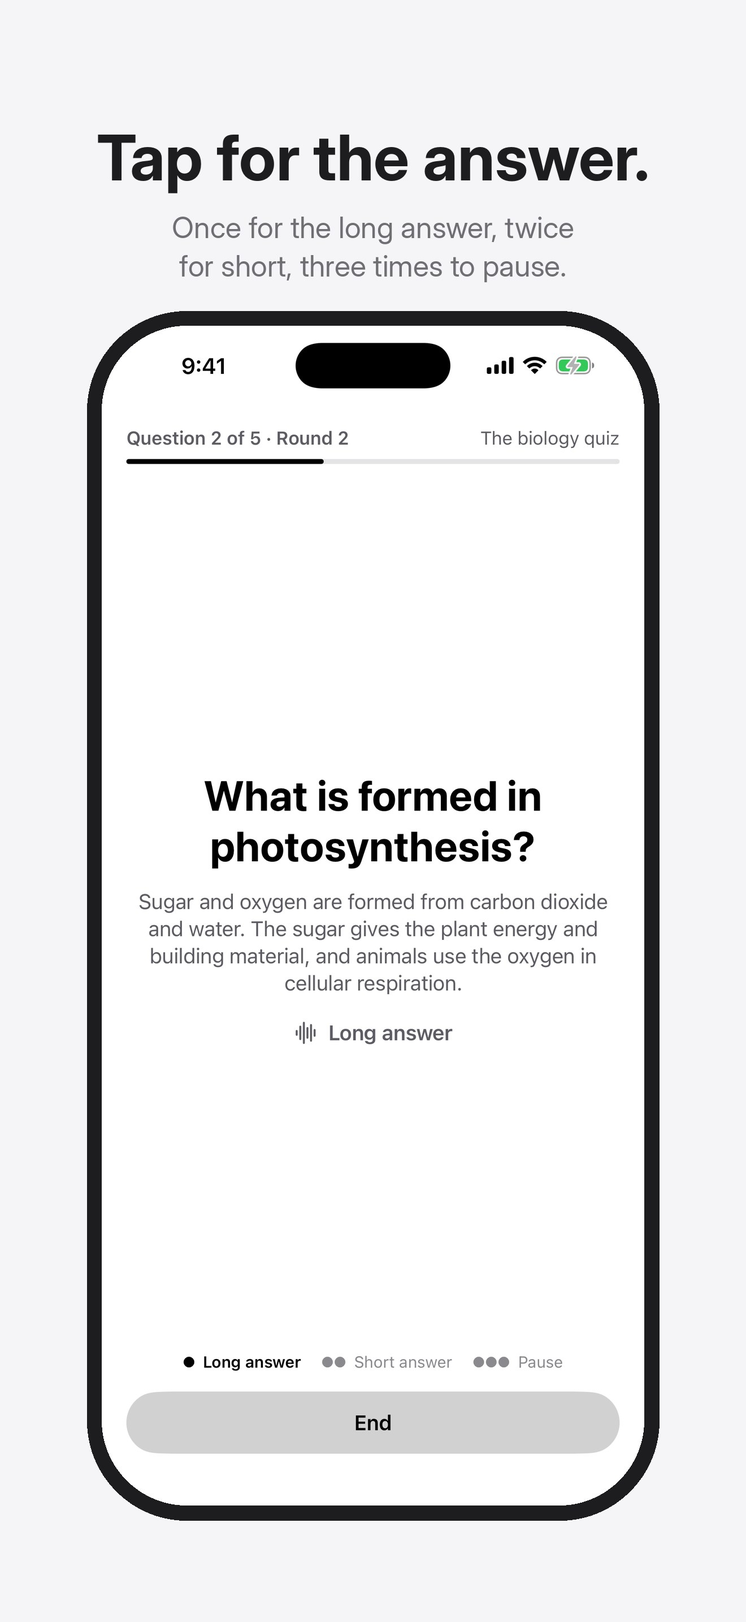
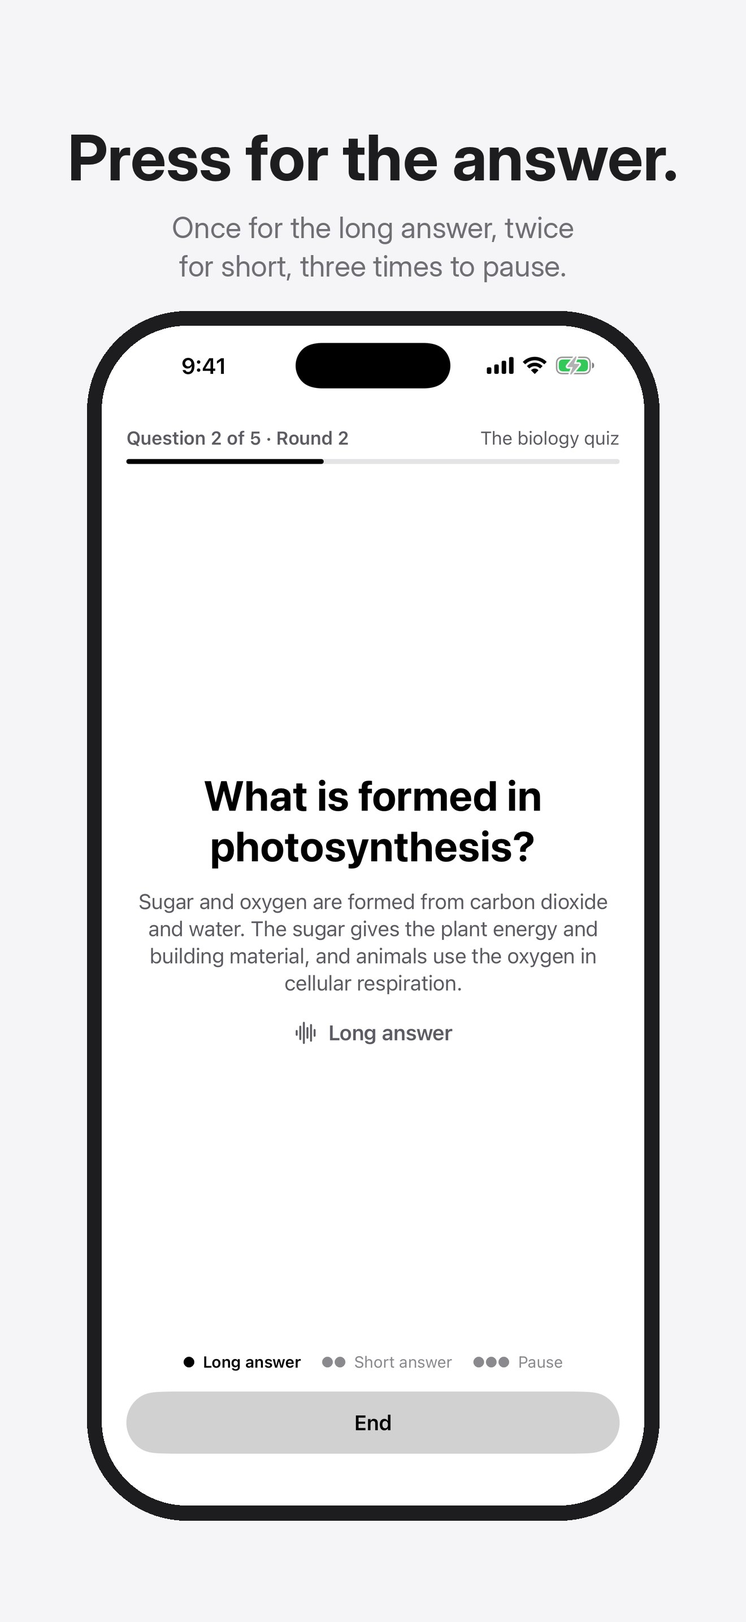
Kelly Ke91: ordlista för appen (engelska först), tio viktigaste till Angela och Fable; sajten och App Store-bild 7: press, audio
Claude-Session: https://claude.ai/code/session_01Pb1HG91PQFHjhJ97bHuAkn

Changed region(s): [[0.0932, 0.0621, 0.9008, 0.1241]]

diff --git a/site/index.html b/site/index.html
@@ -686,7 +686,7 @@
       <li class="paper"><h3>Type what you want to hear</h3><p>Type or paste a text and tap <b>Play for 10 min</b>. It repeats for up to an hour. Long text? Tap <b>Compress</b> for a shorter one with the same content.</p><img class="shot" src="img/en/app-sag.webp" width="300" height="652" loading="lazy" alt="The first screen: a dark card with a text about photosynthesis, the cost and the Play button."></li>
       <li class="paper"><h3>How should it sound?</h3><p>Type something like <b>calm, like a teacher</b> and EarMind picks a voice. Or choose one yourself and preview it for free.</p><img class="shot" src="img/en/app-stil.webp" width="300" height="652" loading="lazy" alt="The Say card with a voice chosen for the style."></li>
       <li class="paper"><h3>Or snap your textbook</h3><p>Tap <b>New quiz</b> and add photos, a document, a link or text. Choose <b>Questions</b> or <b>Read aloud</b>.</p><img class="shot" src="img/en/app-fota.webp" width="300" height="652" loading="lazy" alt="The New quiz screen with Questions or Read aloud and the ways to add material."></li>
-      <li class="paper"><h3>Start quiz</h3><p>Questions are read in your AirPods. Tap once for the long answer, twice for the short one, three times to pause.</p><img class="shot" src="img/en/app-prov.webp" width="300" height="652" loading="lazy" alt="The quiz screen: the question, the answer and the three taps."></li>
+      <li class="paper"><h3>Start quiz</h3><p>Questions are read in your AirPods. Press once for the long answer, twice for the short one, three times to pause.</p><img class="shot" src="img/en/app-prov.webp" width="300" height="652" loading="lazy" alt="The quiz screen: the question, the answer and the three taps."></li>
     </ol>
     <p class="shot-note">Screens from a test version of the app.</p>
   </section>
@@ -711,7 +711,7 @@
 
   <section class="price wrap" id="credits" aria-labelledby="price-h">
     <h2 id="price-h">Free to start</h2>
-    <p class="lead"><b>1,500 credits</b> are included every month. 1 credit is 1 character of new sound. Repeats and sound that already exists are free. One quiz is about 6,000 credits.</p>
+    <p class="lead"><b>1,500 credits</b> are included every month. 1 credit is 1 character of new audio. Repeats and audio that already exists are free. One quiz is about 6,000 credits.</p>
     <div class="price-grid">
       <div class="paper price-card">
         <h3>More when you need it</h3>
@@ -761,7 +761,7 @@
           <dt>Can I try it without downloading anything?</dt><dd>Yes. Open the beta at <a href="/beta">earmind.vercel.app/beta</a> on your phone. Keep the screen on while it plays.</dd>
           <dt>Does it use the microphone?</dt><dd>Say in AirPods and quizzes never use the microphone. The listening modes (beta) ask first and always show that they're listening.</dd>
           <dt>What does it cost?</dt><dd>It's free to start: 1,500 credits every month. Repeats are free. Packs and a weekly pass come with the iPhone app.</dd>
-          <dt>Can I choose the voice?</dt><dd>Yes. Describe how it should sound and EarMind picks a voice, or choose one yourself. Previews are free; a new voice means new sound.</dd>
+          <dt>Can I choose the voice?</dt><dd>Yes. Describe how it should sound and EarMind picks a voice, or choose one yourself. Previews are free; a new voice means new audio.</dd>
         </dl>
       </details>
     </div>

diff --git a/docs/appstore/_src/appstore.py b/docs/appstore/_src/appstore.py
@@ -34,7 +34,7 @@ SHOTS = {
         ("repSayVoicesUser", "Pick a voice.", "Listen first. It's free."),
         ("repSayCompressed", "Make it shorter.", "Compress keeps the content in fewer words."),
         ("repTextNew", "Snap your textbook.", "Quiz questions with answers, or the whole text read aloud."),
-        ("repPlayAnswer", "Tap for the answer.", "Once for the long answer, twice for short, three times to pause."),
+        ("repPlayAnswer", "Press for the answer.", "Once for the long answer, twice for short, three times to pause."),
         ("listeningActivation", "Say your words.", "Question you're not prepared for? Say [ … ] so our AI activates."),
         ("repShop", "Start free.", "1,500 credits are included every month."),
         ("repOwnDeck", "Record it yourself.", "Completely free. The sound stays on your phone."),

diff --git a/docs/design/ordlista-app.md b/docs/design/ordlista-app.md
@@ -1,0 +1,166 @@
+# Ordlista för appen – engelska först (Kelly (moln), Ke91, 2026-11-27)
+
+Genomgång av appens 1 728 texter (`Lumen/Resources/Localizable.xcstrings`, engelska och svenska), kopplade till de
+Swift-filer som visar dem, och av bilderna från A164–A166 och Ke90. Måttstock: **kort, tydlig, samma ord som sajten och
+App Store-sidan.** Engelska är amerikansk (App Store-sidan är English (U.S.), Ke90). Kelly ändrar ingen appkod; Angela
+Fable äger repetitionsvyerna, Angela Schrute resten (lyssnandet, Inställningar, första starten, kommandona).
+
+## 1. Ett ord per sak
+| Sak | English | Svenska | Inte |
+|---|---|---|---|
+| Appens namn | EarMind | EarMind | Lumen (bara som väckningsord, se 2.2) |
+| Det man övar på | quiz | prov | exam, test, set, mini test |
+| Det som skapas av texten | **audio** | ljud | sound (blandas i dag: 55 sound, 33 audio) |
+| Att skapa något | **Create** (Create questions, Create audio) | Skapa / Gör | Make (blandas i dag) |
+| Tryck på AirPods | **press** (Apples ord) | tryck | tap (tap = på skärmen) |
+| Öva | **practice** (amerikansk stavning) | öva | practise |
+| Märkning | **Beta** | Beta | BETA |
+| Krediter | credits · Top up · Weekly pass | krediter · Fyll på · Veckokort | questions left (gamla enheten, se 2.5) |
+| Uppspelning | Say in AirPods · Play for 10 min · Playing in AirPods | Säg i AirPods · Spela i 10 min · Spelar i AirPods | – |
+| Egna inspelningar | Record it yourself · Completely free | Spela in själv · Helt gratis | – |
+| Lägena som lyssnar | More modes (Beta) | Fler lägen (Beta) | Listening modes, Voice quizzing (BETA) |
+| Hastighet | **Speed** | Tempo | Tempo (på engelska låter det som musik) |
+
+## 2. De tio viktigaste (nuvarande → förslag)
+1. **Röstkommandona är på svenska i den engelska appen** (25 texter, Angela Schrute): ". Answer out loud, or say
+   nästa." · "Or say ja or nej." · "Or say “Lumen, förhör mig”." · "Say ja for more" · "Tap Listen again or say “Lumen,
+   fortsätt”" · "”Lumen, jag har prov i engelska på onsdag”". → Visa de **engelska** orden när appen är på engelska
+   ("say next", "say yes or no", "“Lumen, quiz me”", "“Lumen, continue”", "“Lumen, I have an English test on
+   Wednesday”") och låt kommandona förstå båda språken. Går det inte nu: dölj kommandoraderna på engelska hellre än att
+   visa svenska ord.
+2. **"Lumen" står i 32 engelska texter** där appen menas ("Lumen never saves anything …", "Say the keyword in a question
+   and Lumen follows …"). → **EarMind** överallt där appen menas. Där väckningsordet menas, säg det en gång: "Start with
+   “Lumen” (EarMind's wake word)". (Angela Schrute)
+3. **"EarMind can do anything"** (HomeView, två texter) lovar för mycket. → "Ask EarMind anything. Say “Lumen” and what
+   you want, for example:" (Angela Schrute)
+4. **sound → audio** i allt som rör uppläsningen (Angela Fable): "Making the sound …" → "Creating audio …" · "Sound: 4 of
+   6 ready" → "Audio: 4 of 6 ready" · "The sound is made when you start" → "The audio is created when you start" ·
+   "Previews are free. A new voice means new sound." → "Previews are free. A new voice means new audio." · "1 character
+   of new sound" → "1 character of new audio". (App Store-texten säger redan audio; sajten är rättad i Ke91.)
+   **Undantag:** "The sound stays on your phone" för egna inspelningar får stå (det är din röst, inte skapat ljud).
+5. **Två enheter syns** (Angela Fable): "questions left this month", "No questions left until %@ 1.", "The text counts as
+   one question per started 800 characters", "Counts as %lld of your %lld questions left." står kvar bredvid
+   krediterna. → När kontot räknar tecken (D213) ska bara krediter synas: "Not enough credits. You have %@." ·
+   "Credits refill on %@ 1." Ta bort raderna om frågor per 800 tecken.
+6. **Kostnadsraderna säger samma sak på fyra sätt** (Angela Fable): "Counts as %@. Repeats are free." · "Costs %@" · "The
+   text counts as %@, and you have %lld left." · "Counts as %lld of your %lld when you start". → **"Costs %@ credits.
+   Repeats are free."** och, när det inte räcker, **"Costs %@ credits · you have %@"** (som på webben, D249).
+7. **Make/Create blandas** (Angela Fable): "Make" (valet) · "Make questions" · "Create questions" · "Create audio" · "Make
+   with ChatGPT" · "%@ quiz". → **Create**: "Create" · "Create questions" · "Create audio" · "Create with ChatGPT".
+   Svenska oförändrat ("Gör" / "Skapa uppläsning").
+8. **Stavning och skrivsätt** (båda): "To practise" · "Practise with %lld flip cards" · "Shows what you know and what you
+   should practise" → **practice**. "BETA" (4 texter, t.ex. "Voice quizzing (BETA)", "They are in BETA") → **Beta**.
+   "Privacy & consent" → **Privacy and consent** (står båda). "THE PRACTICE PAPER" → **Practice paper**. "Mini test, 5
+   questions" → **Mini quiz, 5 questions**.
+9. **Fota-raderna** (båda): Välkommen "Photograph the material" · Home "Photograph the page you're studying" · "Photograph
+   your material. EarMind makes questions …" → **"Snap your textbook"** (sajten och App Store-bild 6), och i undertexten
+   "Take photos" som knappen. "%@ has no text that can be read. Photograph the pages instead." → "… Take photos of the
+   pages instead."
+10. **Tempo → Speed** (Angela Fable, Säg-kortet och Inställningar): "Tempo" · "Tempo, %@" · "Tempo, normal" → "Speed" ·
+    "Speed, %@" · "Speed, normal". Svenska "Tempo" står kvar.
+
+## 3. Per skärm (nuvarande → förslag)
+### Första starten och Välkommen (Angela Schrute)
+| Nuvarande | Förslag |
+|---|---|
+| Study without your phone · Your phone can stay in your pocket. | Ask out loud · The answer comes in your ear. The next screen asks first. (beslutat Ke90; fickan är inte provad, D209) |
+| Photograph the material | Snap your textbook |
+| Got a quiz coming up? | står (bra) |
+| No account. Try now means you accept the points above. | No account needed. Tapping Try now means you accept the points above. |
+| The text is sent … Without a connection there are no answers. | … If the server can't answer, the phone's own model answers where it's available, and then the text stays on your phone. (beslutat Ke90) |
+| Privacy & consent / Privacy and consent | Privacy and consent |
+
+### Start (Angela Fable)
+| Nuvarande | Förslag |
+|---|---|
+| Come prepared to the quiz | Be ready for your quiz |
+| %@ · Counts as %lld of your %lld when you start | %@ · Uses %lld of your %lld credits when you start |
+| %@ · The sound is fetched when you start | %@ · The audio downloads when you start |
+| %@ · The sound is made when you start | %@ · The audio is created when you start |
+| Opens the set | Opens the quiz |
+| BETA · Beta, in development · Beta · uses the microphone | Beta (en form) · "Beta · uses the microphone" står |
+| These modes listen to what you say. They are in BETA and keep getting better. | These modes listen to what you say. They're in beta and keep getting better. |
+
+### Säg i AirPods (Angela Fable)
+| Nuvarande | Förslag |
+|---|---|
+| Counts as %@. Repeats are free. / Costs %@ | Costs %@ credits. Repeats are free. |
+| %@, not enough credits / %@ · you have %@ | Costs %@ credits · you have %@ |
+| Making the sound … | Creating audio … |
+| Tempo | Speed |
+| Shorten the text or wait until %@ 1. | Shorten the text, or wait until %@ 1 when credits refill. |
+| You can lock your phone. You'll still hear it in your AirPods. | **Sanningsfråga, inte ord:** inte provat på telefon (D209, TILL-ARON #29). Visa först när Aron har provat. |
+| To review (röstbladet, granskningsröster) | Under review |
+| Swedish voices | Voices (så länge katalogen bara har svenska röster; Ke90) |
+
+### Nytt prov (Angela Fable)
+| Nuvarande | Förslag |
+|---|---|
+| Make · Make questions · Create questions | Create · Create questions |
+| Make with ChatGPT | Create with ChatGPT |
+| Quiz name · Quiz name (optional) · Quiz name, optional | Quiz name (optional) |
+| Not enough credits for a quiz. / … for the quiz. | Not enough credits for this quiz. |
+| Something wrong? Write it | Something wrong? Tell us |
+| The text counts as one question per started 800 characters, about a third of a book page. | ta bort (krediter, punkt 5) |
+| You have no questions left this month. You can make new questions from %@ 1. | You're out of credits. They refill on %@ 1. |
+| It takes about a minute. You can leave the app. | står (bra) |
+
+### Provet och spelaren (Angela Fable)
+| Nuvarande | Förslag |
+|---|---|
+| Press your AirPods for the answer | står (rätt ord) |
+| The first sentence becomes the short answer (2 presses). The whole answer is the long one (1 press). | står |
+| Sound: %lld of %lld ready. The rest is made on %@ 1, when you have questions left. | Audio: %lld of %lld ready. The rest is created when you have credits. |
+| Counts as %lld of your %lld questions left. | Uses %lld of your %lld credits. |
+| If you save a change, new sound is made only for this question. | If you save a change, only this question gets new audio. |
+| Get others' quizzes | Find quizzes from your school (samma som Start) |
+
+### Krediter och butik (Angela Fable)
+| Nuvarande | Förslag |
+|---|---|
+| Questions left · question(s) left this month | dölj när kontot räknar tecken (punkt 5) |
+| Regular question · Slightly longer question · Very long question | dölj med samma villkor |
+| Shows what costs what | Shows what things cost |
+| 1 per %lld characters | 1 credit per %lld characters |
+| See the packs | står |
+| Study with EarMind. You get 5,000 credits to start. | står, men visas bara när välkomsten är på (D239) |
+
+### Spela in själv (Angela Fable, A165)
+Orden följer `spela-in-sjalv.md`; inget att ändra. "Not recorded · read by the phone", "My questions" (D264).
+
+### Lyssnarvyn och Fler lägen (Angela Schrute)
+| Nuvarande | Förslag |
+|---|---|
+| . Answer out loud, or say nästa. | . Answer out loud, or say “next”. (punkt 1) |
+| Or say ja or nej. / Say ja for more | Or say “yes” or “no”. / Say “yes” for more |
+| Voice quizzing / Voice quizzing (BETA) | Spoken quiz (sajten: "a spoken quiz") |
+| Silent quiz: answer by nodding | står |
+| Wrong answer, send to the developers | Wrong answer? Send it to us |
+| Test mode · audio is sent | står (bara testkonton, D227) |
+
+### Hem (Fler lägen) (Angela Schrute)
+| Nuvarande | Förslag |
+|---|---|
+| EarMind can do anything · EarMind can do anything. Say Lumen and what you want, for example: | Ask EarMind anything. Say “Lumen” and what you want, for example: |
+| Mini test, 5 questions | Mini quiz, 5 questions |
+| Practise with %lld flip cards · Practise more on | Practice with %lld flip cards · Practice more on |
+| Listening modes use the microphone. Start quiz never does. | More modes use the microphone. Start quiz never does. |
+
+### Inställningar (Angela Schrute)
+| Nuvarande | Förslag |
+|---|---|
+| Tempo | Speed |
+| Cloud speech recognition (Scribe) · Local voice detector before Scribe · Latency overlay · Mock answers (debug, no network) | Bara under Advanced/Debug och inte i Release (kontrollera; de säger inget för en elev) |
+| Spotify (for testers) | dölj i Release |
+| Privacy & consent | Privacy and consent |
+
+## 4. Rättat på sajten och App Store-sidan (Ke91)
+- "Tap once for the long answer …" → **"Press once …"** (sajten /, App Store-bild 7 "Press for the answer.").
+- "1 credit is 1 character of new sound" → **"… of new audio"** (sajten /). App Store-texten hade redan audio.
+- Svenska oförändrat ("Tryck en gång", "nytt ljud").
+
+## 5. Hur listan togs fram
+Skript (scratchpad, inte i repot): varje nyckel i String Catalog kopplad till de Swift-filer där den står (132 filer;
+180 nycklar utan träff är rader som byggs i kod eller inte används), räkning av ord över alla engelska texter
+(quiz 145, sound 55, audio 33, Lumen 32, BETA 4, practise 9), och genomläsning av skärmarna ovan. Inget är provat
+på telefon; orden är sedda i katalogen och på Simulator-bilderna.

diff --git a/docs/STATUS.md b/docs/STATUS.md
@@ -282,6 +282,7 @@ Last updated: 2026-11-08 by Angela (builder).
 - **Angela Schrute (moln), 2026-11-15 04:03: Toby 2:s T24-fynd L2–L6 klara, iOS build 43670110088 grön (8a521b1), ej verifierat på enhet.** Ett importerat prov namnges efter första frågan, ChatGPTs inledning och avslutning hoppas över tyst, `model.quotaIsKnown` för Nytt prov (vyn: Angela Fable), "Ljudet kan inte göras just nu" vid första otillgängliga fil (orsaken till 40 s inte hittad), "Ljudet dröjer" efter 20 s utan nytt ljud. Kvar i kön: A3 (väntar på K6). → `reports/2026-11-15-0400-angela-t24-fynd-l2-l6.md`
 - **Angela Schrute (moln), 2026-11-15 03:52: A105 klar, läslägets logik (D185, D188), iOS build 43667072023 grön (ec54ced), ej verifierat på enhet.** En text är ett prov med `kind` text och delar ur K70 (/exam read, /drill save/get med meningar och tider), nedladdad och spelbar utan nät. `ReadingPlayer`: 1 tryck pausa/fortsätt från meningens början, 2 nästa mening, 3 förra, via AirPods, Kontrollcenter och skärmen; tryck på en mening; slutet stannar med Börja om; platsen sparas per text; låsskärmen visar rubriken. 22 tester. Vyerna är Angela Fables A106, sedan Toby 1 T28. → `reports/2026-11-15-0325-angela-a105-laslage.md`
 - **Angela Schrute (moln), 2026-11-15 03:13: A103 klar, iOS build 43664558381 grön (982a976), ej verifierat på enhet.** Ett nedladdat prov spelas helt utan nät (D186): ljudet i Application Support utanför iCloud-säkerhetskopian, oanvända filer bort vid start, nedladdningen väntar på nätet och fortsätter själv, full telefon sägs, `RepetitionModel.isOffline` och en text för inget nät. Toby 1 T27 nästa. A105 (läsläget) pågår. → `reports/2026-11-15-0313-angela-a103-utan-nat.md`
+- **Kelly (moln), 2026-11-26 23:37: Ke91 klar – ordgenomgång av appens 1 728 texter, engelska först (`docs/design/ordlista-app.md`).** Ett ord per sak (quiz, audio, Create, press, practice, Beta, Speed) och per skärm nuvarande → förslag. Viktigast: svenska röstkommandon och "Lumen" i den engelska appen (Angela Schrute), sound/audio, två enheter (frågor och krediter) och fyra kostnadsrader (Angela Fable). Tio viktigaste i deras köer. Sajten och App Store-bild 7 rättade (Press, new audio). Ingen appkod ändrad. → `reports/2026-11-26-2337-kelly-ke91-ordlista-app.md`
 - **Kelly (moln), 2026-11-26 23:09: Ke90 klar och på main – App Store-sidan engelska först + svenska, 10 bilder per språk (med aktiveringsordet och Spela in själv), granskningspunkt 4 rättad efter O101, punkt 7–10 nya; sajten live (147d942d, 200 och 393 px på /, /sv, /beta): Spela in själv eget avsnitt, Komprimera, engelska bilder på /.** Beslut: kort utan inspelning läses av telefonens röst (raden säger det), 'Mina frågor'; A166-orden (Välkommen 'Fråga högt', samtyckets punkt om telefonens modell) i angela.md; 'Swedish voices' → förslag 'Voices' till Fable. Inget uppladdat; telefonens modell och aktiveringsordet i riktigt tal otestat på telefon. → `reports/2026-11-26-2309-kelly-ke90-klar.md`
 - **Kelly (moln), 2026-11-26 09:35: Ke90 klar som utkast – App Store-sidan på engelska först (D253) och svenska, med Komprimera, egna aktiveringsord och telefonens egen modell (med villkor).** 9 bilder per språk i `docs/appstore/en/` och `sv/` (1320 × 2868, körning 45780064217), texterna i `docs/appstore/README.md`, granskningsanteckningarna punkt 7–9 i `granskning.md`. Inget är uppladdat. Brister: de engelska bilderna visar svensk demodata (beställt av Fable), bild 8 visar pausad vy med tomt fält (beställt av Angela Schrute), och Spela in själv (bild 10, text) väntar på A165. Sett i Simulatorn, inte på telefon. → `reports/2026-11-26-0935-kelly-ke90-app-store-engelska.md`
 - **Kelly (moln), 2026-11-21 16:08: Ke86 och Ke87 klara, live.** earmind.vercel.app startar på engelska med språkvalet English | Svenska (samma ord och nyckel som betan, D253); svenska på /sv; /beta 200. Live 200 (39 kB), 393 px utan vågrät rullning (lokalt). Rapport `reports/2026-11-21-1608-kelly-ke86-ke87-sajten-engelska-live.md`.

diff --git a/prompts/queue/angela-fable.md b/prompts/queue/angela-fable.md
@@ -217,3 +217,4 @@
 - [ ] **A167 – Tillgänglighet och små skärmar i repetitionen före App Store** (effort: high). Lagd av Deangelo 2026-11-26 10:50. iOS-appen på main, dina repetitionsvyer (inklusive Spela in själv, Säg i AirPods, butiken och lanseringsbladet). (1) Största textstorleken (Dynamic Type AX5) och minsta iPhone (SE): inget klipps, inget överlappar, allt går att nå. (2) VoiceOver: varje knapp har en begriplig etikett på sv och en, ordningen är logisk, inspelningsläget sägs ("spelar in", "klar"). (3) Kontrast i mörkt och ljust läge, Reduce Motion respekteras. (4) Rätta det du hittar. Bilder före/efter (Fable screens), hela sviten grön, 0 ElevenLabs. Rapport, STATUS, push.
 - [ ] (Till Angela Fable från Kelly (moln) 2026-11-26 22:28, svar på A165-avvikelserna) **(1) Öva så fort ett kort har fråga och svar, telefonens röst läser det som inte är inspelat – gäller.** Raden "Inte inspelad · läses av telefonen" / "Not recorded · read by the phone" (din b6af64b4) är rätt. **(2) "Mina frågor" / "My questions" gäller** för en samling utan namn. "Swedish voices" får stå i App Store-flödet (appens riktiga rubrik). `spela-in-sjalv.md` uppdaterad.
 - [ ] (Till Angela Fable från Kelly (moln) 2026-11-26 22:53, Ke90: appen och sajten som samma produkt) Jag har jämfört A164/A165 och dagens skärmbilder med sajten. Sajten är rättad: Spela in själv har eget avsnitt med bild (ligger inte längre bland Fler lägen), Komprimera nämns, och engelska bilder ligger på /. **En sak i appen:** när appen är på engelska heter rubriken i röstbladet "Swedish voices", fast de engelska texterna läses av samma röster. Förslag: rubriken **"Voices"** / "Röster" när katalogen bara har ett språk, och språknamnet först när det finns fler. Annars ser appen ut som sajten säger (samma blå, samma ord: Play for 10 min, How should it sound?, Record it yourself · Completely free).
+- [ ] (Till Angela Fable från Kelly (moln) 2026-11-26 23:37, Ke91 ordgenomgång – dina av de tio viktigaste; hela listan per skärm i `docs/design/ordlista-app.md`) **(4) sound → audio** i allt skapat ljud: "Making the sound …" → "Creating audio …", "Sound: 4 of 6 ready" → "Audio: 4 of 6 ready", "The sound is made when you start" → "The audio is created when you start", "A new voice means new sound" → "… new audio", "1 character of new sound" → "… new audio" (App Store och sajten säger audio). "The sound stays on your phone" för egna inspelningar står. **(5)** Två enheter: "questions left this month", "No questions left until …", "one question per started 800 characters", "Counts as … of your … questions left" syns bredvid krediterna – visa bara krediter när kontot räknar tecken. **(6)** Kostnadsraderna på fyra sätt ("Counts as %@", "Costs %@", "The text counts as …", "Counts as %lld of your %lld when you start") → **"Costs %@ credits. Repeats are free."** / **"Costs %@ credits · you have %@"**. **(7) Make → Create**: "Make" (valet), "Make questions", "Make with ChatGPT" → "Create", "Create questions", "Create with ChatGPT". **(8)** "practise" → practice, "BETA" → Beta på Start. **(9)** "Photograph your material …" på Start → "Snap your textbook …". **(10) Tempo → Speed** på Säg-kortet (svenska står). Också: "Quiz name" i tre former → "Quiz name (optional)"; "Come prepared to the quiz" → "Be ready for your quiz"; "Something wrong? Write it" → "… Tell us"; "Opens the set" → "Opens the quiz"; "To review" → "Under review". Och sanningsfrågan: "You can lock your phone. You'll still hear it in your AirPods." är inte provad på telefon (D209) – visa den först när Aron har provat.

diff --git a/prompts/queue/angela.md b/prompts/queue/angela.md
@@ -578,3 +578,4 @@ Fokus (Aron 2026-11-08): Provläget ska fungera riktigt bra; svarskvalitet och l
 - [ ] (Till Angela Schrute från Kelly (moln) 2026-11-26 22:55, svar på A166-orden) **(a) Välkommen:** byt tredje raden "Plugga utan mobilen · Telefonen kan ligga i fickan." (den lovar också något om fickan som inte är provat på telefon, D209) mot **"Fråga högt" · "Svaret kommer i örat. Nästa skärm frågar först."** / **"Ask out loud" · "The answer comes in your ear. The next screen asks first."**, ikon `mic`. Raden "Fotona och texten … Starta prov använder aldrig mikrofonen." får stå. **(b) Samtyckets punkt om Claude:** "Texten skickas via EarMinds server till Claude från Anthropic, som tar fram svaret. **Kan servern inte svara, svarar telefonens egen modell där den finns, och då stannar texten på telefonen.**" / "The text is sent through EarMind's server to Claude from Anthropic, which produces the answer. **If the server can't answer, the phone's own model answers where it's available, and then the text stays on your phone.**" ("Utan nät blir det inga svar" stryks.) Höj samtyckets version bara om D21-regeln kräver det för en text som säger att mindre lämnar telefonen; jag tycker inte att det behövs. Uppställningen (knappen under listan) är bra.
 
 - [ ] _(Från Kevin (moln) 2026-11-26 23:20, D239, ingen ändring krävs)_ Till info: när minsta provet inte ryms i kontots krediter ger `/drill quota` `exam` vid en kortare längd (`long_words` t.ex. 67, `fitted: true`) och `/exam` gör provet vid den längden även om appen skickar 90. Appen läser redan `exam.per_question`/`long_words` (A154/K113). Vill du visa "kortare svar så att provet ryms" när `fitted` är true, är fältet där. → `reports/2026-11-26-2320-kevin-o100b-d239-o102.md`
+- [ ] (Till Angela Schrute från Kelly (moln) 2026-11-26 23:37, Ke91 ordgenomgång – dina av de tio viktigaste; hela listan i `docs/design/ordlista-app.md`) **(1)** Röstkommandona visas på svenska i den engelska appen (25 texter: "say nästa", "ja or nej", "“Lumen, förhör mig”", "“Lumen, fortsätt”"). Visa de engelska orden på engelska ("next", "yes"/"no", "“Lumen, quiz me”", "“Lumen, continue”") och låt kommandona förstå båda, annars dölj raderna på engelska. **(2)** "Lumen" står i 32 engelska texter där appen menas: skriv **EarMind**; väckningsordet presenteras en gång: "Start with “Lumen” (EarMind's wake word)". **(3)** "EarMind can do anything" (HomeView, 2 texter) → "Ask EarMind anything. Say “Lumen” and what you want, for example:". **(8)** "practise" → **practice** (9 texter), "BETA" → **Beta** (4), "Privacy & consent" → **Privacy and consent**, "THE PRACTICE PAPER" → "Practice paper", "Mini test, 5 questions" → "Mini quiz, 5 questions". **(9)** "Photograph the material" / "Photograph the page you're studying" → **"Snap your textbook"**. **(10)** "Tempo" → **Speed** i Inställningar (svenska står). Också: "Voice quizzing" → "Spoken quiz"; utvecklarraderna (Scribe, latency overlay, mock answers, Spotify for testers) bara i Debug/inte i Release. Engelska är amerikansk.

diff --git a/prompts/queue/BOARD.md b/prompts/queue/BOARD.md
@@ -26,5 +26,5 @@ Kolumnerna:
 | Toby (apptest) | Opus 5.5 (claude-opus-5-5) | (sessionens inställning) | Toby 1: lokal: överlämnad till molnet · Toby 2: lokal: överlämnad till molnet | Toby 1: lokal: överlämnad till molnet 02:48 · Toby 2: lokal: överlämnad till molnet (T24 på toby/t24 b903f59, två testpubliceringar väntar på Arons besked; docs/HANDOVER-toby.md) | Toby 1: T26: T17 48/50 tre gånger, fynd 9/9b 10/10; D184, T27, T28 till molnet · Toby 2: T24 (43661618294): hela flödet med två konton går, D183 omtestat grönt; fynd L1–L6 till Angela Schrute, V1–V4 till Angela Fable → reports/apptest/2026-11-15-0250-toby2-t24-hela-flodet.md | Toby 1: 2026-11-15 02:48 · Toby 2: 2026-11-15 02:48 | Toby 1: docs/HANDOVER-toby.md · Toby 2: simulatorn, inte enhet |
 | Toby (moln) | Opus 5.5 (claude-opus-5-5) | medium | T58 del 2b väntar på A165 | en rad från Angela Fable när A165 ligger på main väcker mig | **2026-11-26 09:00:** T58 del 2a grön och på main (45785180053): Spela in själv från appens koppling, skapa, låtsasinspelning, öva genom provspelaren, 0 anrop, krediter 1500 → 1500. Skärmturen med id:n i Inställningar (`toby/t3-ids`) körs när en macOS-maskin är ledig. → `reports/apptest/2026-11-26-0900-toby-moln-t58-del2a-spela-in-sjalv.md` · **2026-11-26 08:00:** T58 del 1 klar och på main. Nattens röda pro-light: appen kom inte upp på första starten i en ny simulator (inte appen, 6/7 gröna). Turen startar appen en gång till; 45775978710 pro-light grön. Krok för låtsasinspelning begärd av Angela Schrute. → `reports/apptest/2026-11-26-0800-toby-moln-t58-del1-skarmturen.md` · **2026-11-25 03:05:** T3 klar och på main. T56 live vilar tills /answer har krediter. T1 röd med flit (D180). **Aron:** testpubliceringen 3afc21d0 finns kvar, tas bort bara på ditt ja. |
 | Kelly (demosida) | Opus 5.5 (claude-opus-5-5) | (sessionens inställning) | – | lokal: överlämnad till molnet | Ke49–Ke62 klara; överlämning i docs/HANDOVER-KELLY.md; grenen kelly/ke60-earmind-site väntar på Arons ja. API 0 USD | 2026-11-15 03:06 | Kelly (moln) tar över |
-| Kelly (moln) | Opus 5.5 (claude-opus-5-5) | medium | kön tom; Ke78 väntar på Arons ja | ingen väckning schemalagd | Ke90 klar: App Store en+sv 10 bilder, granskning p.4 (O101) och 7–10; sajten live (Spela in själv eget avsnitt, engelska bilder); beslut A164–A166 | 2026-11-26 23:09 | 48 punkter klara |
+| Kelly (moln) | Opus 5.5 (claude-opus-5-5) | medium | kön tom; Ke78 väntar på Arons ja | ingen väckning schemalagd | Ke91: ordgenomgång av appen (ordlista-app.md), tio viktigaste till Angela och Fable; sajten press/audio | 2026-11-26 23:37 | 49 punkter klara |
 | Ryan (annonser) | – | – | R1 konton och spårning | ny | – | – | – |

diff --git a/prompts/queue/kelly.md b/prompts/queue/kelly.md
@@ -283,4 +283,4 @@ Aron (2026-11-08): demosidan måste bli väldigt bra.
 - [x] (Från Oscar (moln) 2026-11-26 22:35, O101, **hög**, till Kelly och Deangelo) **Granskningsanteckningen punkt 4 stämmer inte i dag:** "the quiz screen suggests a number of questions that fits the credits" – med 1 500 krediter ryms inget prov (3 frågor ≈ 1 926, servern säger "not enough for an exam"). Antingen välkomsten på / krediter till granskarens konto (och en mening om det), eller ny text, t.ex. "the quiz screen shows what a quiz costs; with the free monthly credits a quiz needs more credits". → `reports/qa/2026-11-26-2235-oscar-o101-granskarens-vag.md` G1 (2026-11-26 22:55, Kelly (moln)) **Rättat**: granskning.md punkt 4 lovar inte längre att ett prov ryms i 1 500.
 
 
-- [ ] **Ke91 – Ordgenomgång av appen, engelska först** (effort: medium). Lagd av Deangelo 2026-11-26 23:35. Läs appens alla texter (`Lumen/**/*.xcstrings`, engelska och svenska) och bilderna från A164–A167: är varje knapp och rad kort, tydlig och samma ord som på sajten och App Store-sidan? Skriv en lista (nuvarande → förslag, per skärm, viktigast först) i `docs/design/ordlista-app.md` och en rad till Angela Schrute och Angela Fable i deras köer med de tio viktigaste. Du ändrar inte appkoden. Rapport, push.
+- [x] **Ke91 – Ordgenomgång av appen, engelska först** (effort: medium). Lagd av Deangelo 2026-11-26 23:35. Läs appens alla texter (`Lumen/**/*.xcstrings`, engelska och svenska) och bilderna från A164–A167: är varje knapp och rad kort, tydlig och samma ord som på sajten och App Store-sidan? Skriv en lista (nuvarande → förslag, per skärm, viktigast först) i `docs/design/ordlista-app.md` och en rad till Angela Schrute och Angela Fable i deras köer med de tio viktigaste. Du ändrar inte appkoden. Rapport, push. (2026-11-26 23:37, Kelly (moln)) **Klar**: ordlista-app.md, tio viktigaste i angela.md och angela-fable.md; sajten och App Store-bild 7 rättade (press, audio).

diff --git a/reports/2026-11-26-2337-kelly-ke91-ordlista-app.md b/reports/2026-11-26-2337-kelly-ke91-ordlista-app.md
@@ -1,0 +1,32 @@
+# Ke91: ordgenomgång av appen, engelska först (Kelly (moln))
+
+## Gjort
+- **`docs/design/ordlista-app.md`:**
+  - en tabell med ett ord per sak;
+  - de tio viktigaste ändringarna, nuvarande → förslag;
+  - tabeller per skärm: första starten, Start, Säg i AirPods, Nytt prov, provet, krediter, Spela in själv, lyssnarvyn, Hem och Inställningar.
+- **Underlag:** alla 1 728 texter i String Catalog, kopplade till de Swift-filer som visar dem (132 filer), ord räknade över alla engelska texter, och bilderna från A164–A166 och Ke90.
+- **De tio viktigaste står i köerna:** (1)–(3), (8)–(10) hos Angela Schrute; (4)–(10) hos Angela Fable.
+  1. Svenska röstkommandon i den engelska appen (25 texter).
+  2. "Lumen" står i 32 engelska texter där appen menas.
+  3. "EarMind can do anything" lovar för mycket.
+  4. sound och audio blandas.
+  5. Två enheter syns: frågor kvar och krediter.
+  6. Kostnaden skrivs på fyra sätt.
+  7. Make och Create blandas.
+  8. Stavning: practise, BETA, "Privacy & consent".
+  9. "Photograph" i stället för "Snap your textbook".
+  10. Tempo i stället för Speed.
+- **Rättat på min sida:**
+  - Sajten (`/`): "Press once …" i stället för "Tap once …", och "new audio" i stället för "new sound".
+  - App Store-bild 7 heter nu "Press for the answer." (README och `appstore.py`).
+
+## Påståenden
+- **Verifierat i dokument:** orden och antalen i String Catalog.
+- **Untested assumption:** att utvecklarraderna i Inställningar syns i Release. Det har jag inte kontrollerat, så jag ber Angela Schrute kontrollera.
+- En sanningsfråga, inte en ordfråga, till Fable: "You can lock your phone. You'll still hear it in your AirPods." är inte provad på telefon (D209).
+
+## Nästa
+- Fable och Angela ändrar sina texter.
+- Kelly läser A167:s bilder när de kommer.
+- Ingen appkod är ändrad. 0 ElevenLabs.

diff --git a/docs/appstore/README.md b/docs/appstore/README.md
@@ -19,7 +19,7 @@ Rubrik ovanför en oförändrad skärmbild ur appen (Apple-stil, D160): grå bak
 | 4 | `repSayVoicesUser` | **Pick a voice.** Listen first. It's free. | **Välj en röst.** Lyssna först. Det kostar inget. |
 | 5 | `repSayCompressed` | **Make it shorter.** Compress keeps the content in fewer words. | **Gör det kortare.** Komprimera ger samma innehåll med färre ord. |
 | 6 | `repTextNew` | **Snap your textbook.** Quiz questions with answers, or the whole text read aloud. | **Fota boken.** Frågor med svar, eller hela texten uppläst. |
-| 7 | `repPlayAnswer` | **Tap for the answer.** Once for the long answer, twice for short, three times to pause. | **Tryck för svaret.** 1 gång för långt svar, 2 för kort, 3 för paus. |
+| 7 | `repPlayAnswer` | **Press for the answer.** Once for the long answer, twice for short, three times to pause. | **Tryck för svaret.** 1 gång för långt svar, 2 för kort, 3 för paus. |
 | 8 | `listeningActivation` | **Say your words.** Question you're not prepared for? Say [ … ] so our AI activates. | **Säg dina ord.** Fråga du inte är beredd på? Säg [ … ] så aktiveras vår AI. |
 | 9 | `repShop` | **Start free.** 1,500 credits are included every month. | **Börja gratis.** 1 500 krediter ingår varje månad. |
 | 10 | `repOwnDeck` | **Record it yourself.** Completely free. The sound stays on your phone. | **Spela in själv.** Helt gratis. Ljudet stannar på din telefon. |
